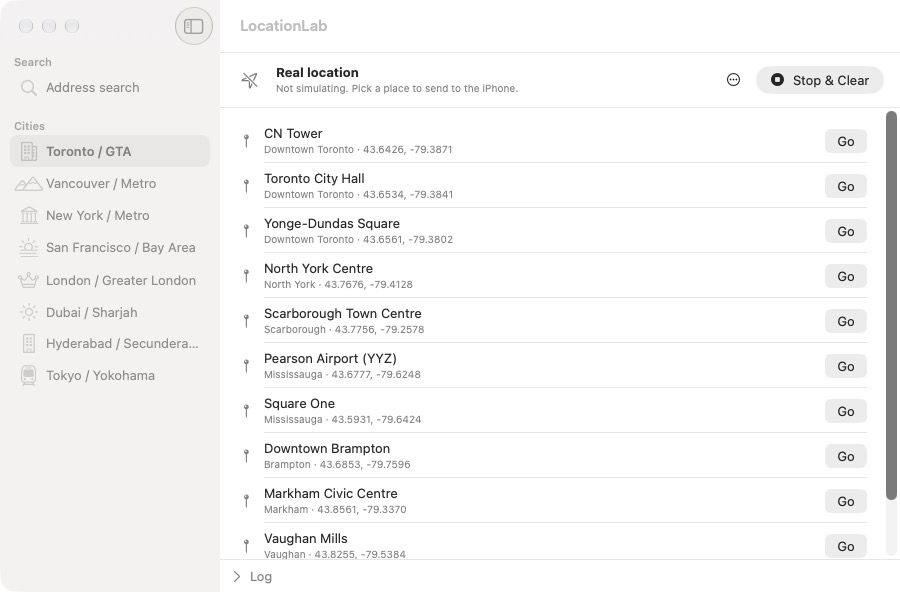
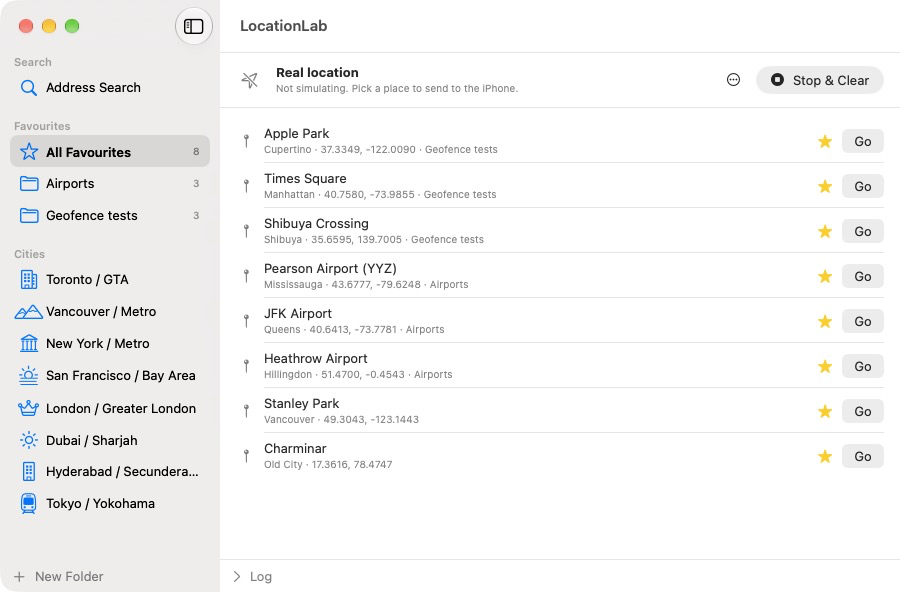
Update screenshot for v0.2.0

diff --git a/README.md b/README.md
@@ -18,7 +18,7 @@
 </p>
 
 <p align="center">
-  <img src="docs/screenshot.png" width="760" alt="LocationLab showing the Toronto place list">
+  <img src="docs/screenshot.png" width="760" alt="LocationLab showing favourites organised into folders">
 </p>
 
 ## Features
